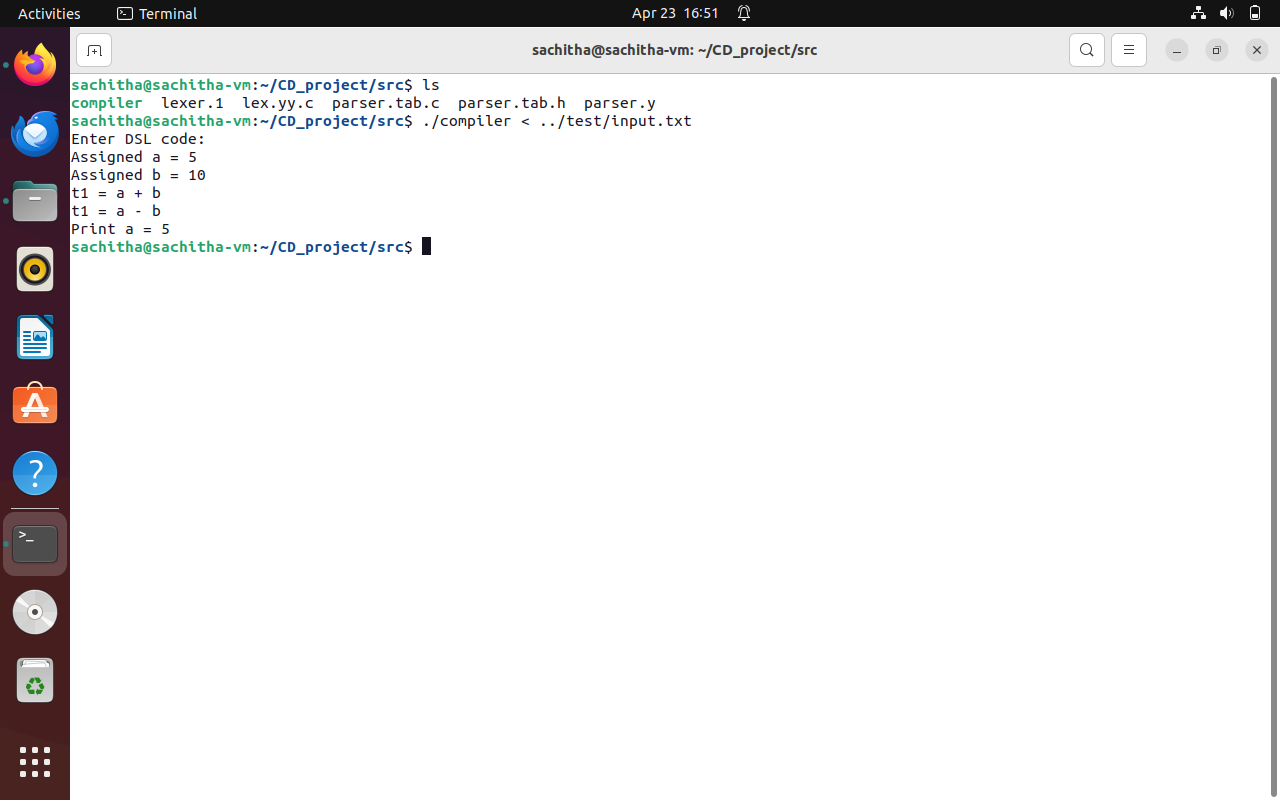
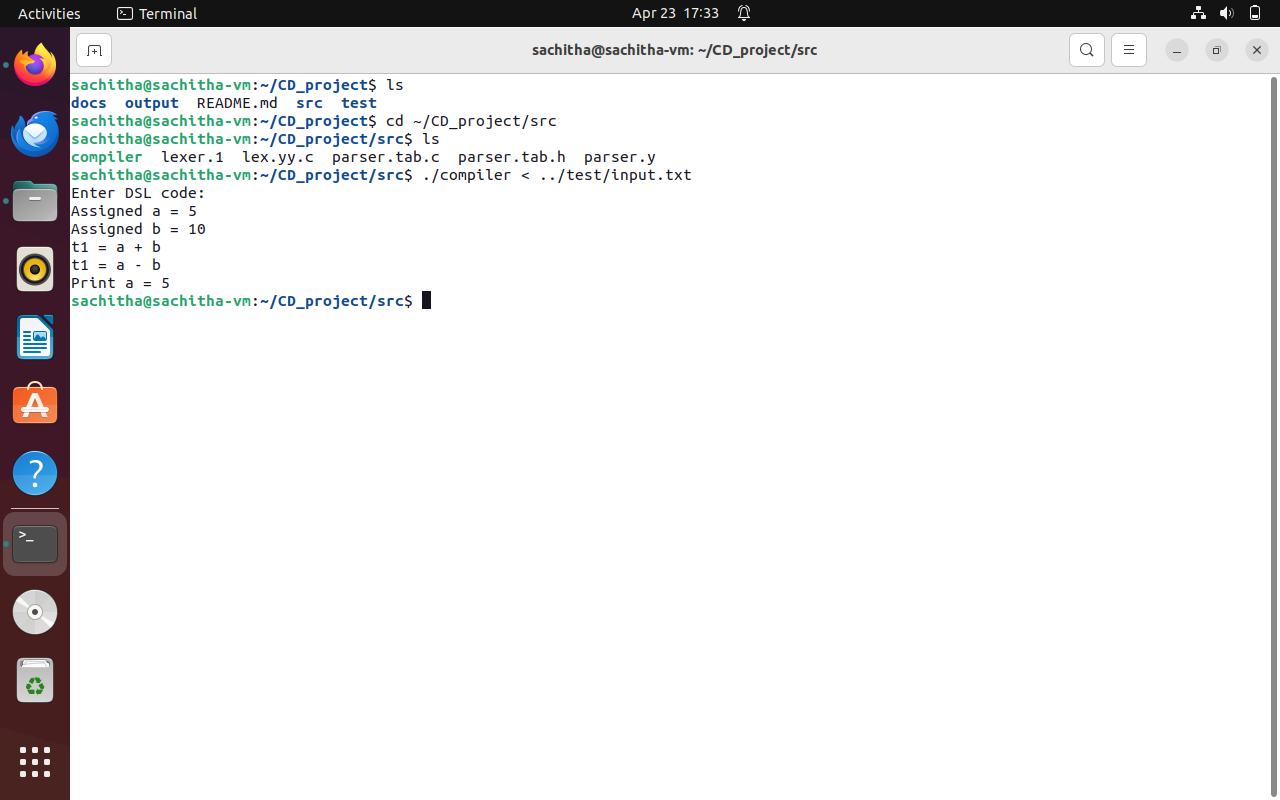
updated README.md

Changed region(s): [[0.0312, 0.0938, 0.5312, 0.4062], [0.5312, 0.0, 0.5625, 0.0312]]

diff --git a/README.md b/README.md
@@ -21,6 +21,20 @@ This project implements a simple compiler for a Domain Specific Language (DSL).
 - GCC
 - C Language
 
+## Sample Input
+SET a = 5
+SET b = 10
+ADD a b
+SUB a b
+PRINT a
+
+## Output
+Assigned a = 5
+Assigned b = 10
+t1 = a + b
+t1 = a - b
+Print a = 5
+
 ## How to Run
 
 ```bash
